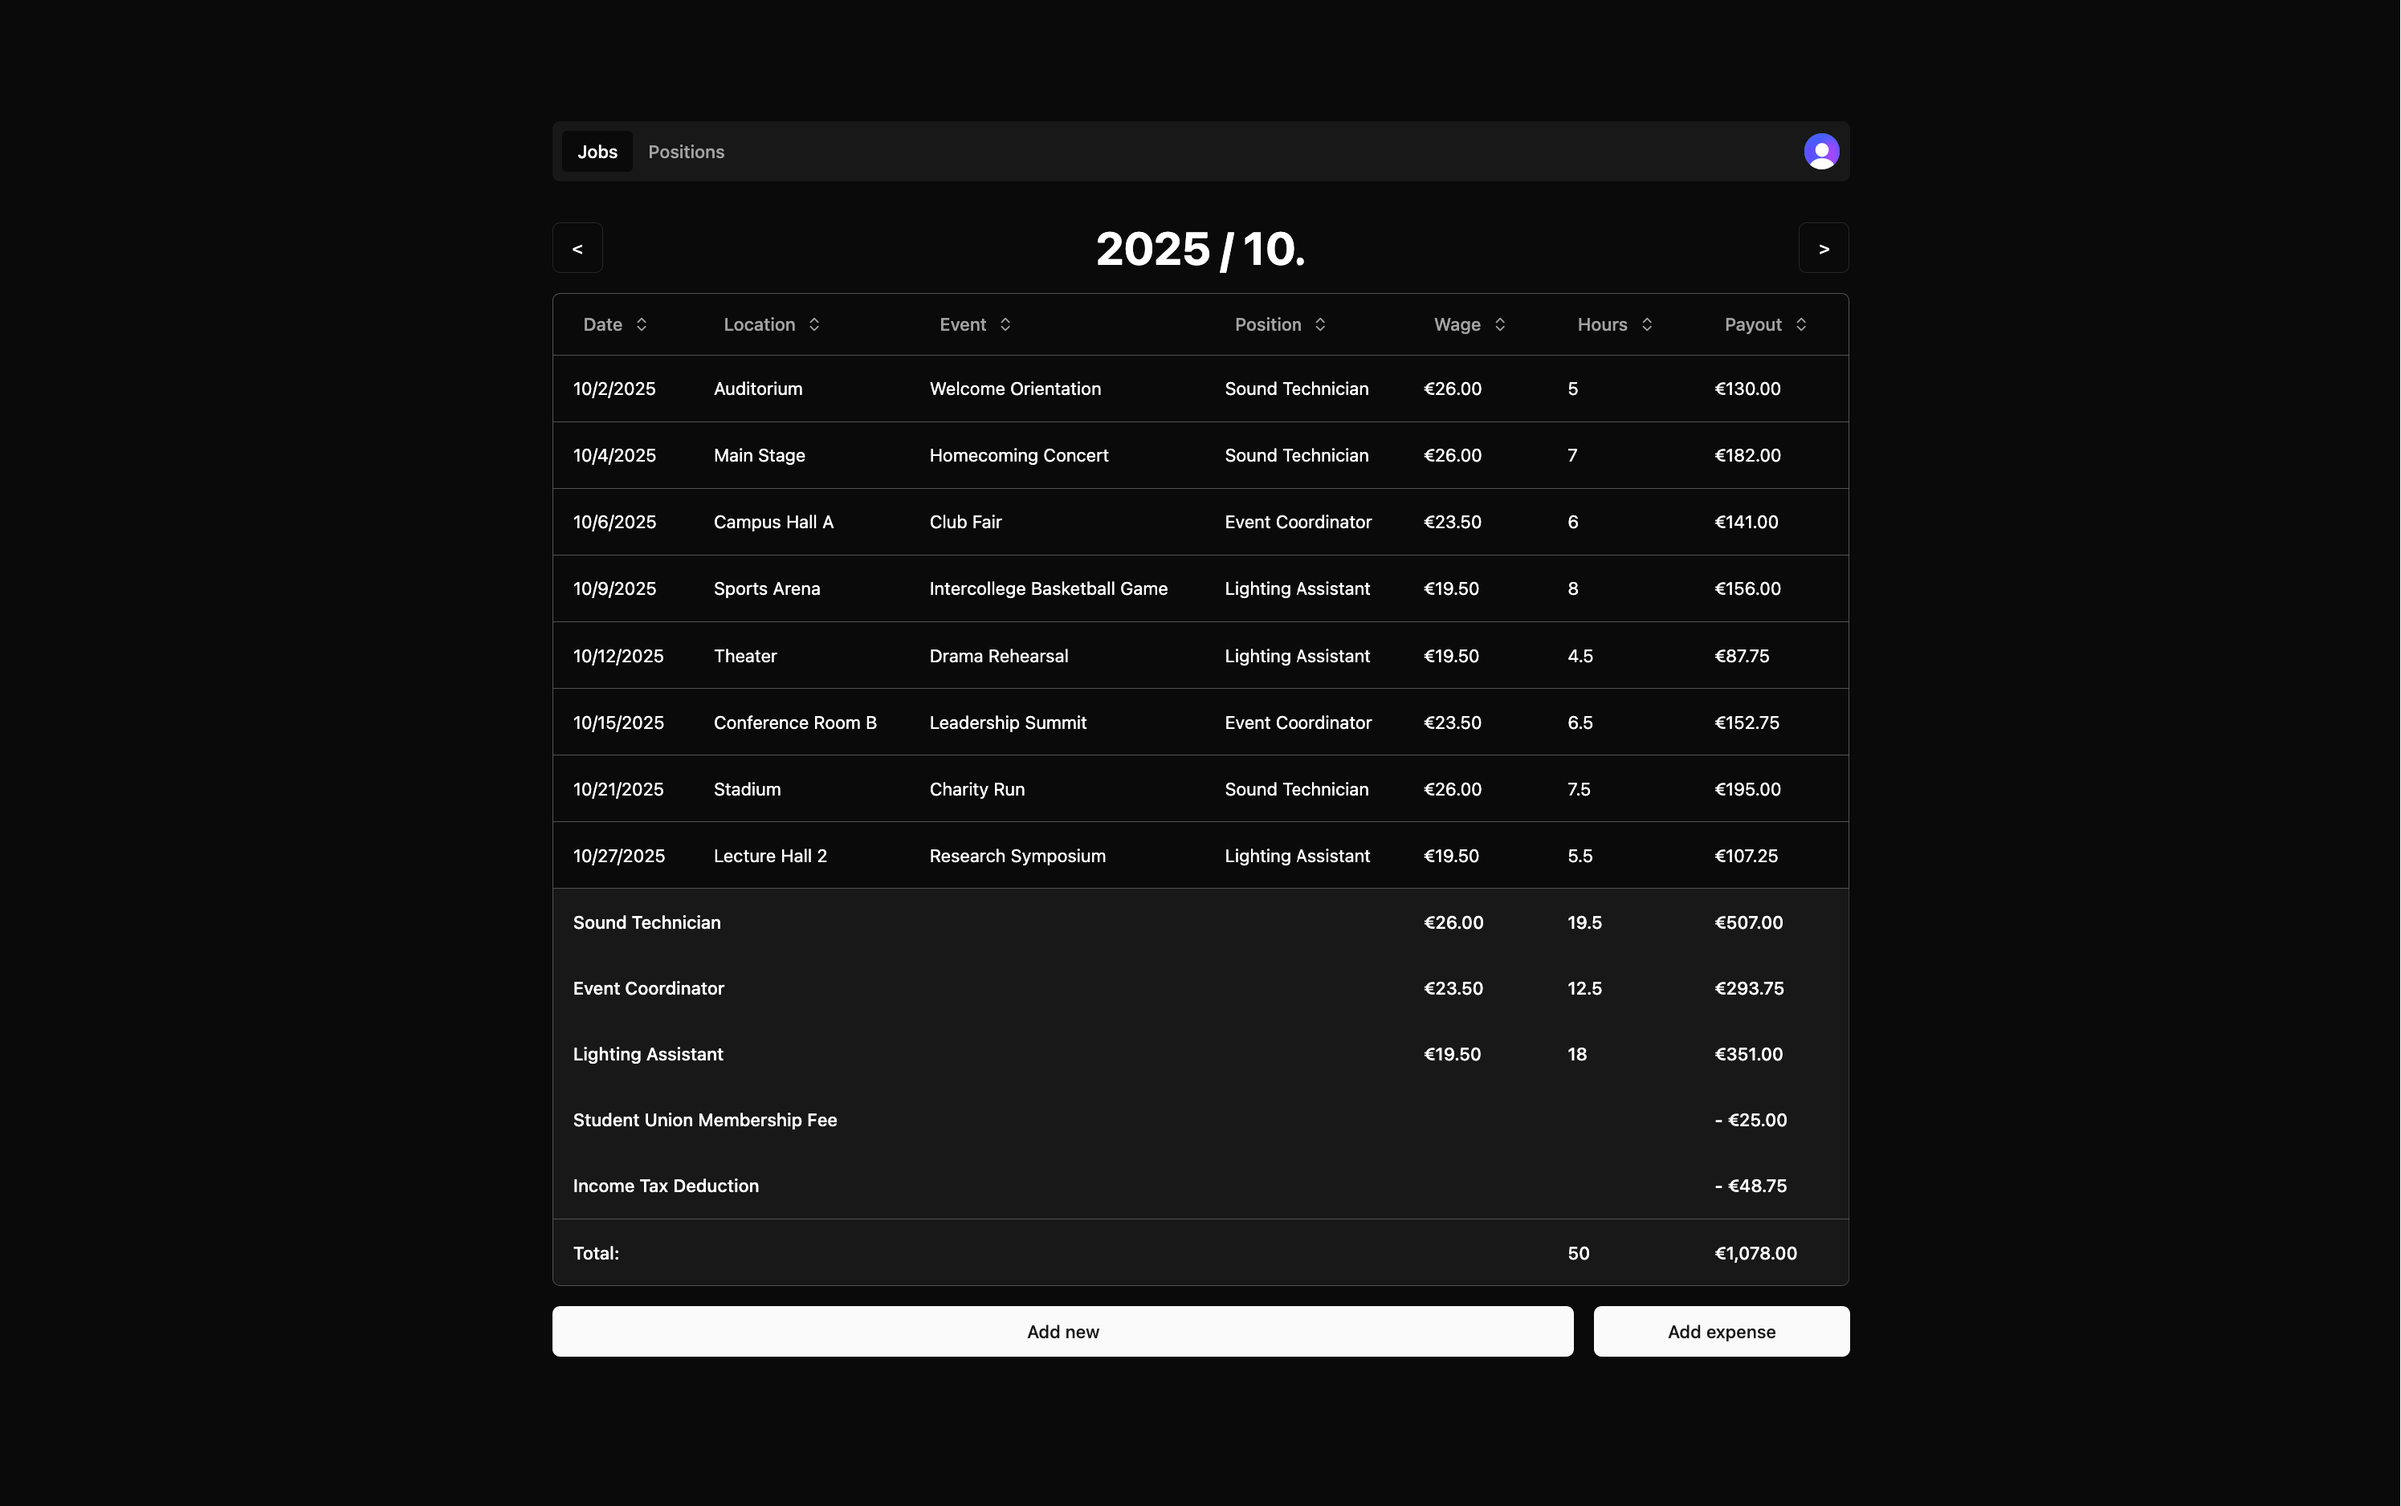
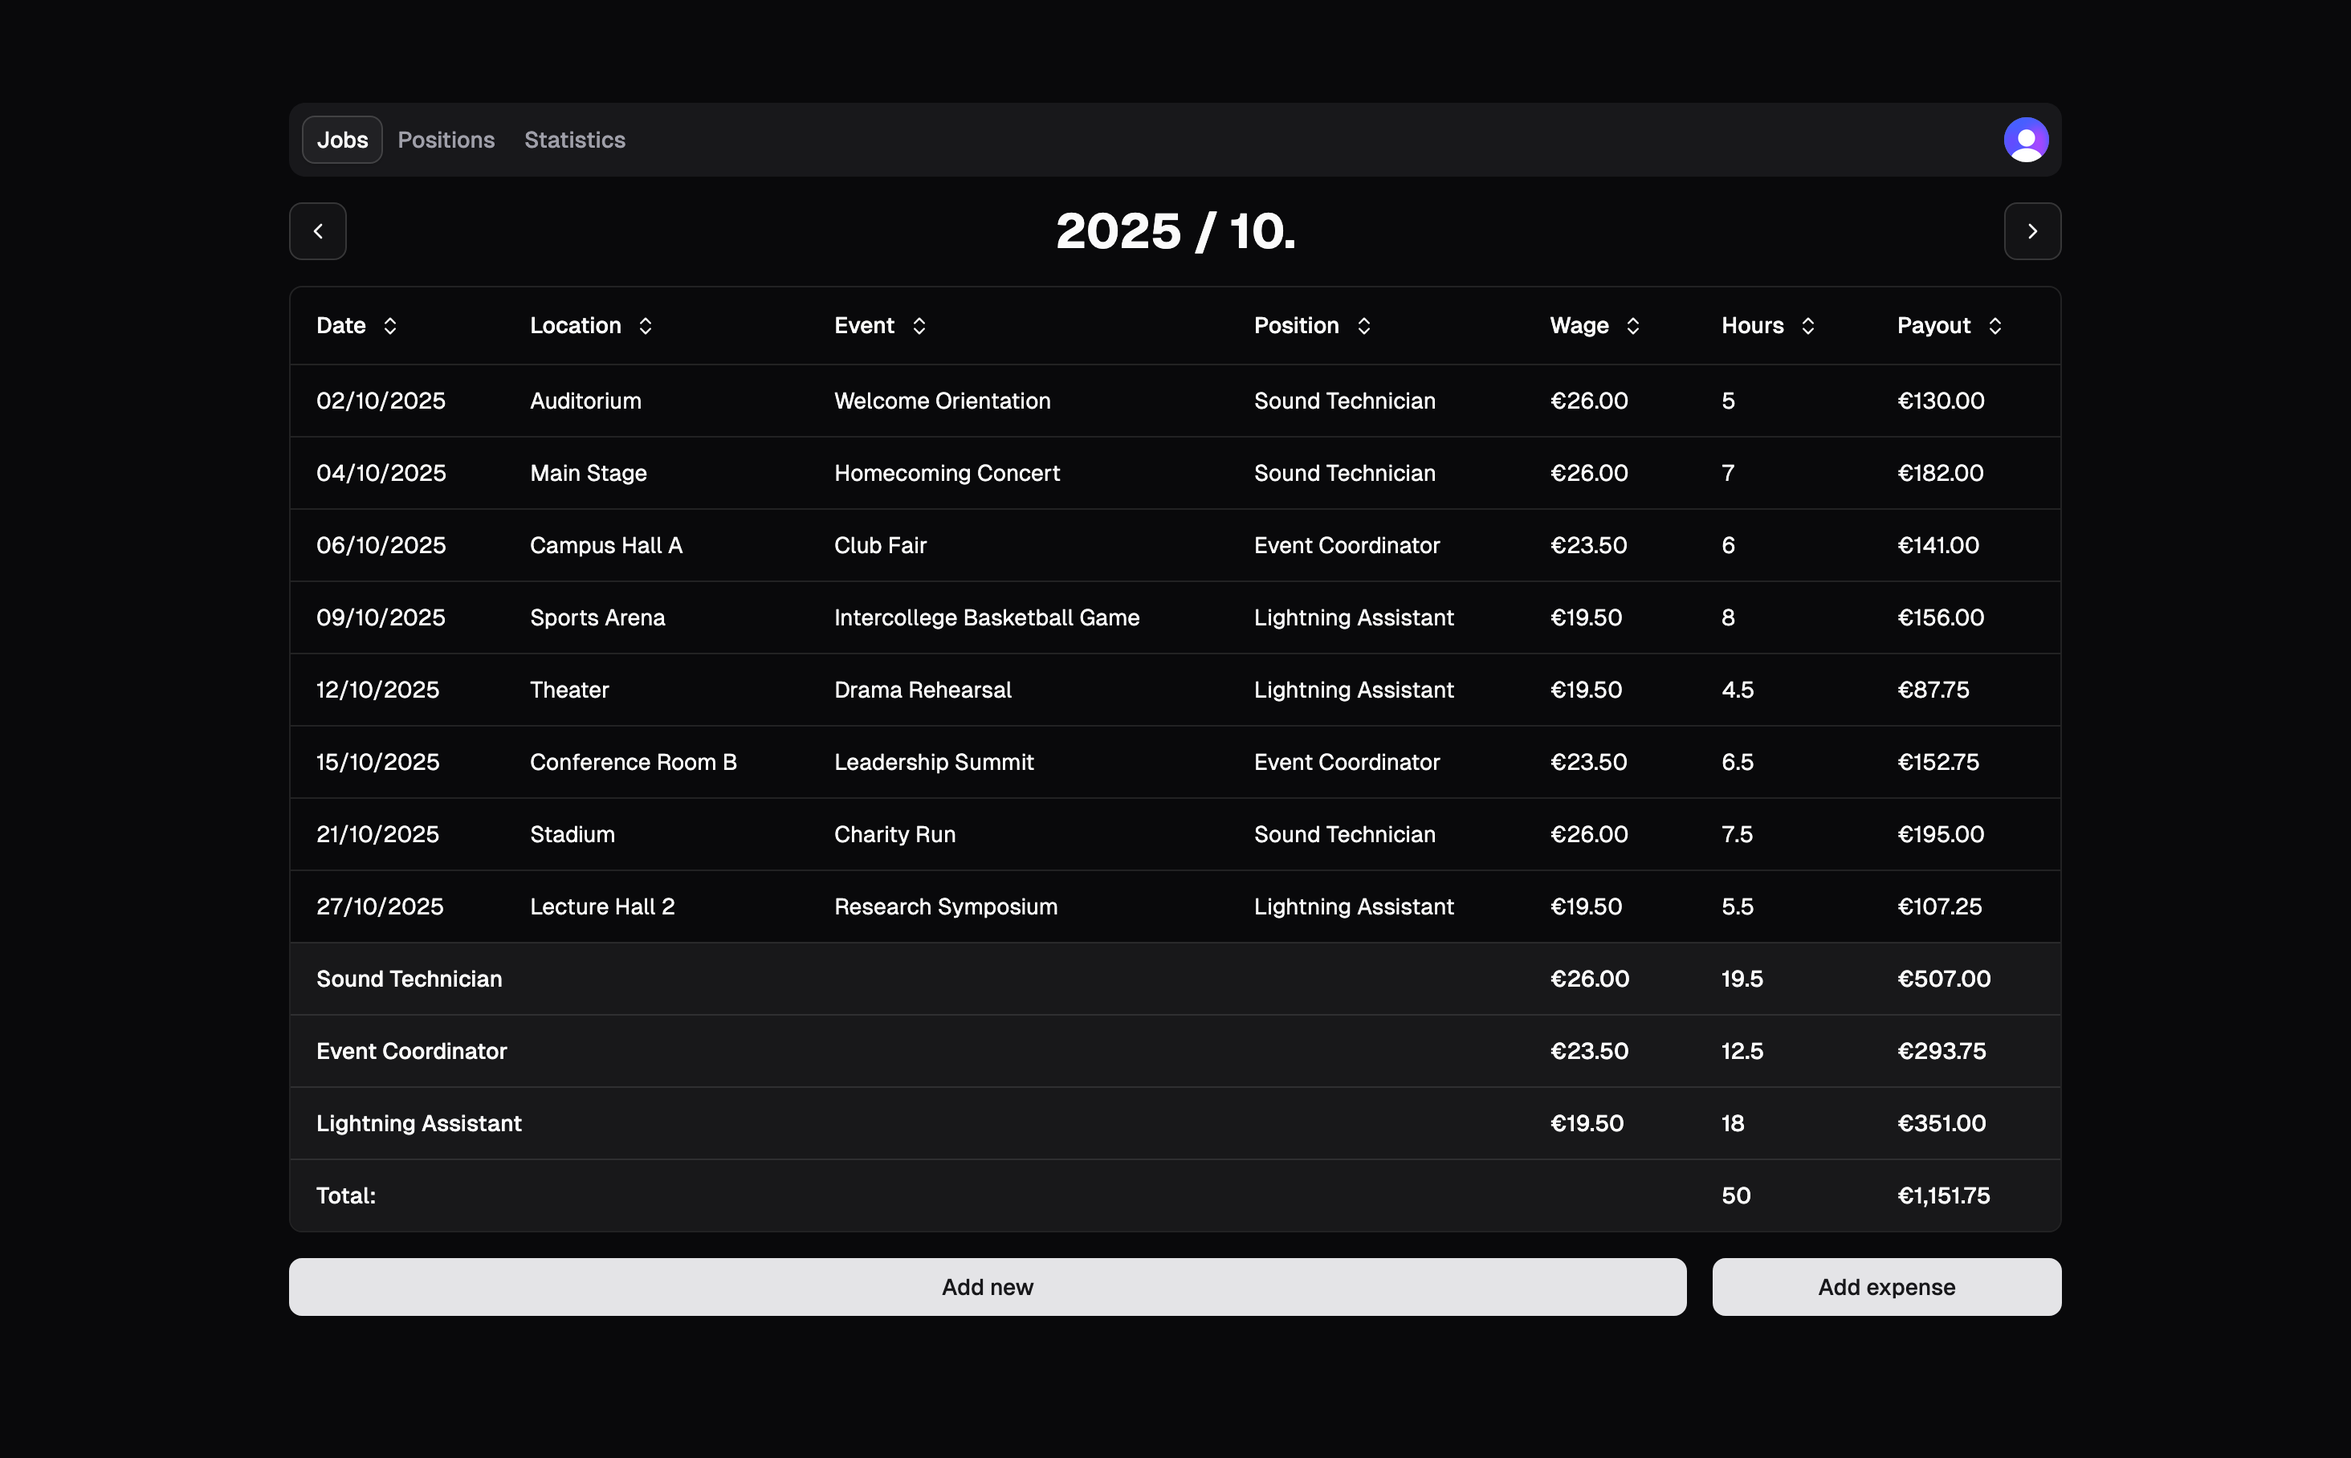
feat: update preview images, add statistics

diff --git a/web/src/app/home/dashboard-preview.tsx b/web/src/app/home/dashboard-preview.tsx
@@ -29,9 +29,9 @@ export function DashboardPreview() {
               <Image
                 src="/jobs.png"
                 alt="JobKeeper Jobs Dashboard showing a table with job entries including dates, locations, events, positions, wages, hours worked, and payouts"
-                width={2048}
-                height={1152}
-                className="aspect-video w-full object-cover"
+                width={2928}
+                height={1647}
+                className="w-full"
                 priority
               />
             </div>
@@ -52,9 +52,31 @@ export function DashboardPreview() {
               <Image
                 src="/positions.png"
                 alt="JobKeeper Positions Dashboard displaying a paginated table of different positions with wages, hours worked, and total payouts"
-                width={2048}
-                height={1152}
-                className="aspect-video w-full object-cover"
+                width={2928}
+                height={1647}
+                className="w-full"
+              />
+            </div>
+          </div>
+
+          <div className="flex flex-col gap-4">
+            <div className="flex items-center gap-3">
+              <div className="h-1 w-8 rounded-full bg-purple-500" />
+              <h3 className="text-xl font-semibold">Statistics</h3>
+            </div>
+
+            <p className="text-muted-foreground max-w-2xl leading-relaxed">
+              Analyze your job data with comprehensive statistics. Visualize earnings, and hours
+              worked in the selected range through charts and graphs.
+            </p>
+
+            <div className="bg-background overflow-hidden rounded-xl border shadow-2xl">
+              <Image
+                src="/statistics.png"
+                alt="JobKeeper Statistics Dashboard displaying various charts and graphs summarizing job data"
+                width={2928}
+                height={1647}
+                className="w-full"
               />
             </div>
           </div>
